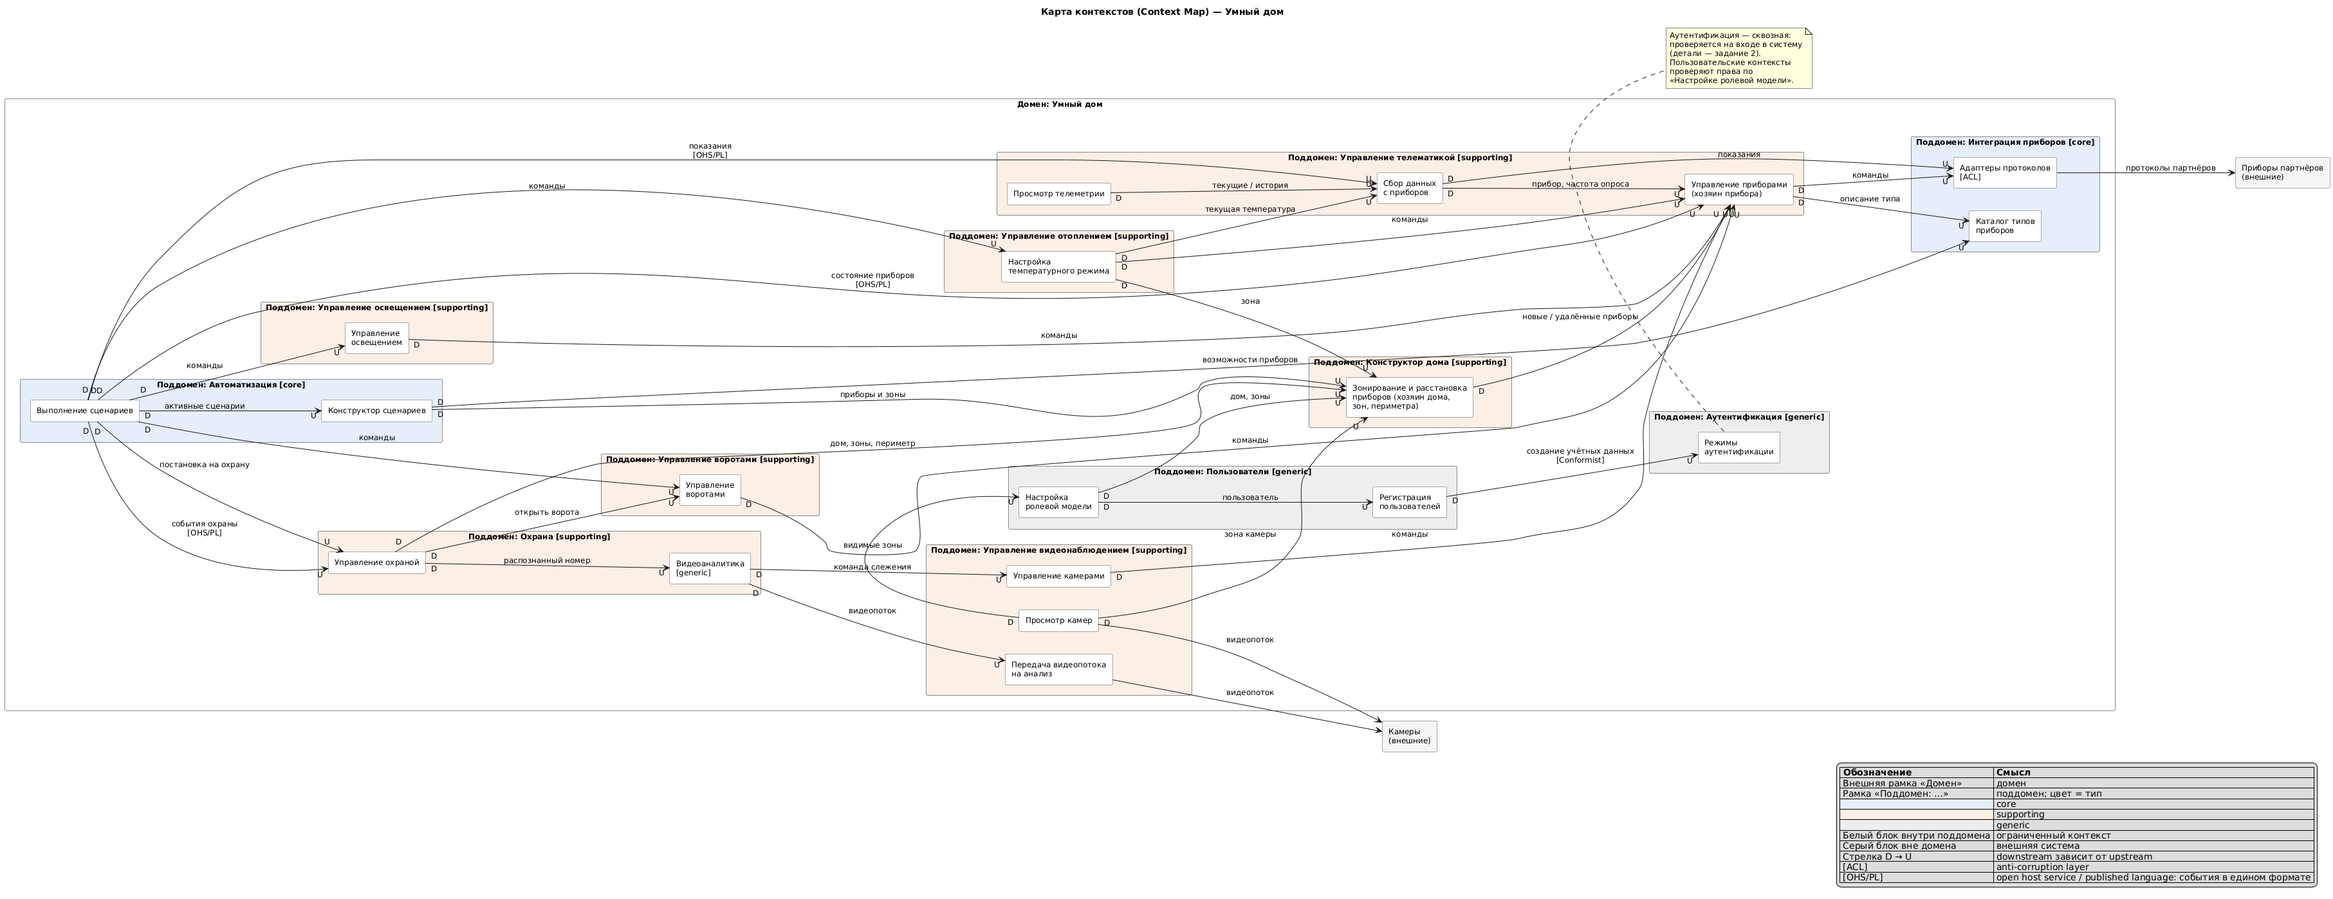
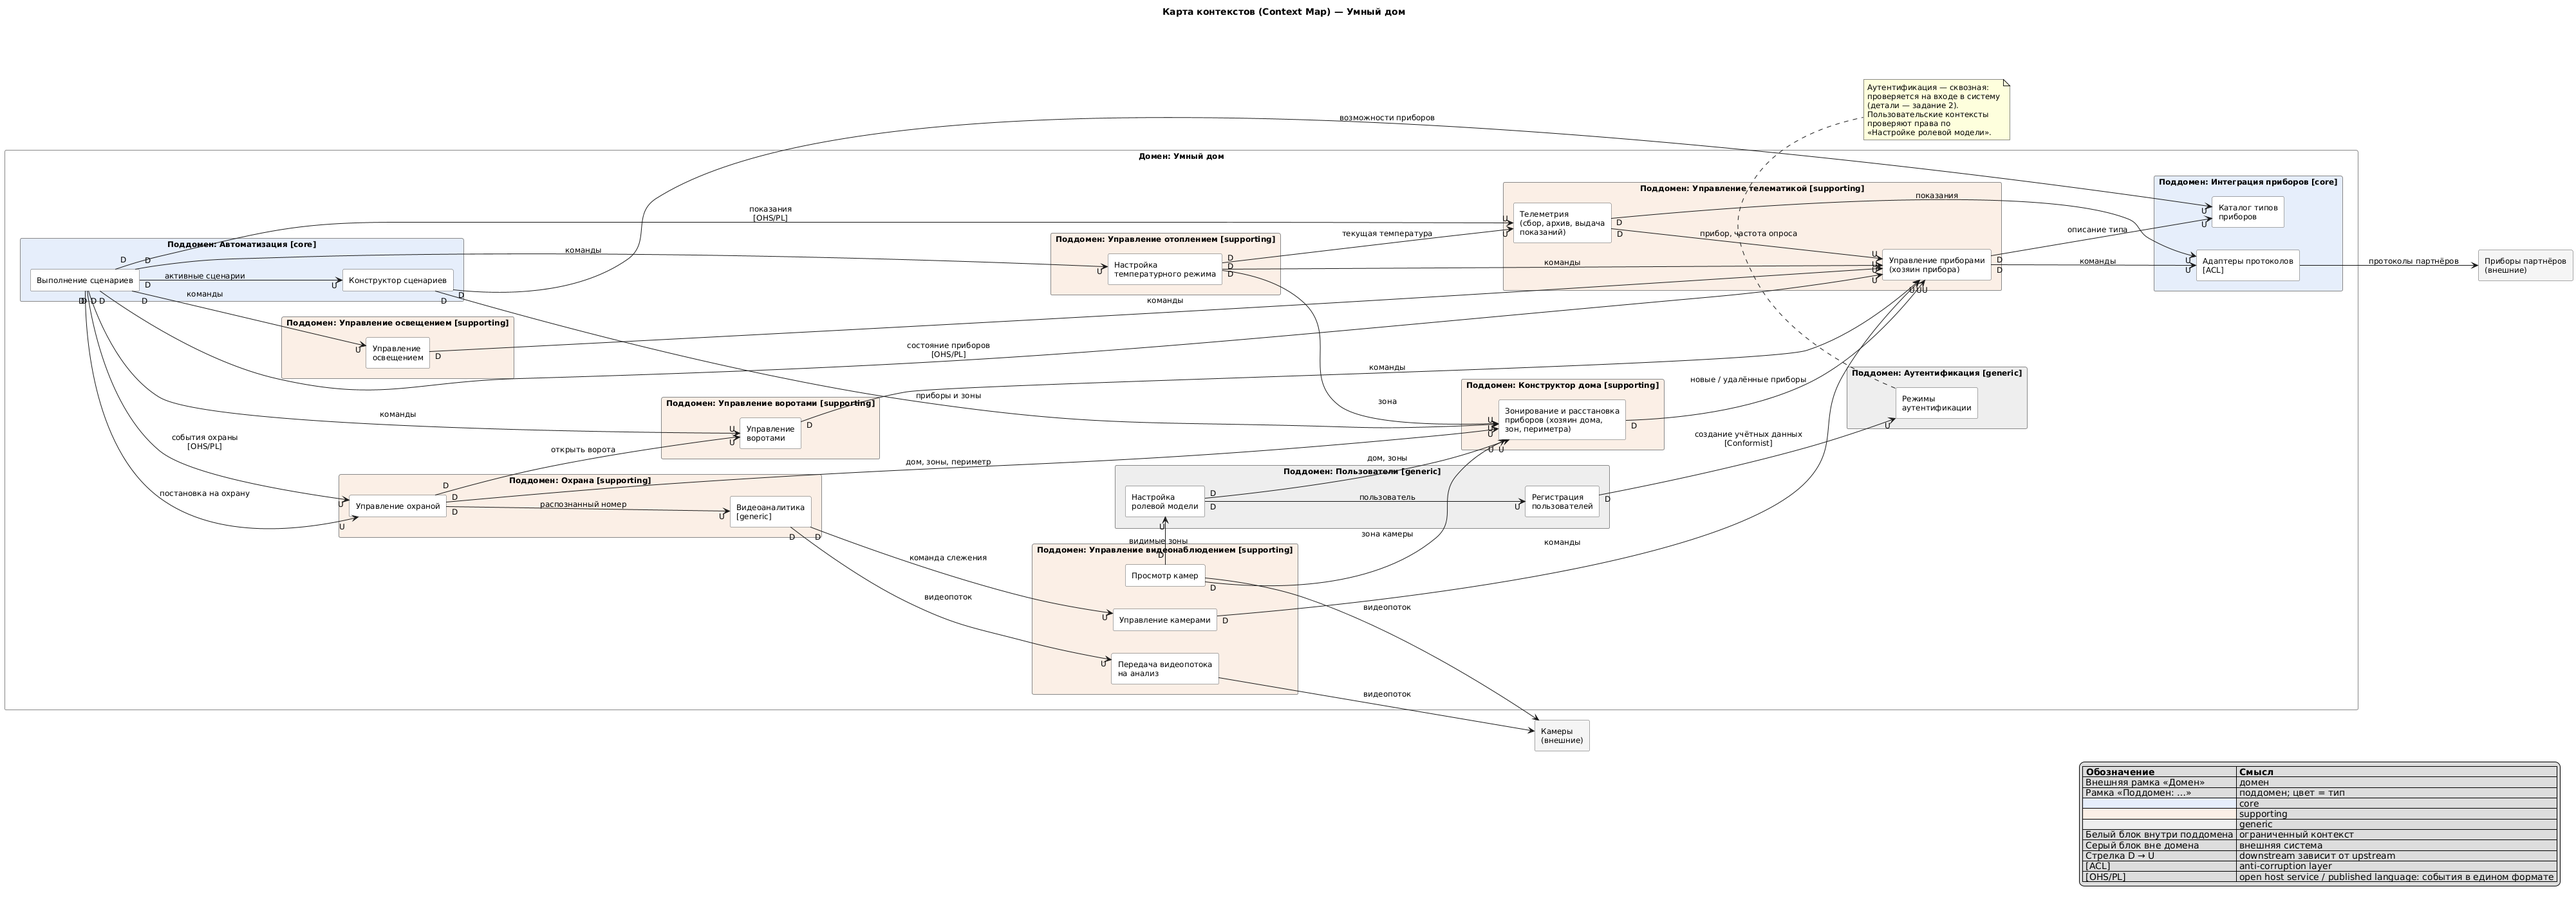
Раздел 3: «Сбор данных» и «Просмотр телеметрии» объединены в контекст «Телеметрия»

diff --git a/diagrams/domains.md b/diagrams/domains.md
@@ -51,16 +51,18 @@
           частота опроса, адрес, калибровка);
         - передача команд на приборы (единственный путь команд к приборам);
         - контроль работоспособности приборов.
-    - Контекст: Сбор данных с приборов (плановый опрос с заданной частотой,
-      внеочередной опрос по запросу, хранение истории показаний в архиве;
-      единственный контекст, обращающийся к приборам за показаниями)
-    - Контекст: Просмотр телеметрии (ничего не хранит; текущие показания
-      и история — через «Сбор данных»)
+    - Контекст: Телеметрия (единственный контекст, обращающийся к приборам
+      за показаниями). Операции:
+        - плановый опрос с заданной частотой;
+        - внеочередной опрос по запросу;
+        - хранение истории показаний в архиве;
+        - выдача текущих и исторических показаний (пользователю,
+          сценариям, отоплению).
 
 - Интеграция приборов [core]
     - Контекст: Адаптеры протоколов [ACL] (перевод стандартных протоколов
       партнёров в единую внутреннюю модель показаний и команд;
-      «Сбор данных» и «Передача команд на приборы» работают
+      «Телеметрия» и «Передача команд на приборы» работают
       с приборами через адаптеры)
     - Контекст: Каталог типов приборов (описание типа как данных:
       что прибор измеряет, в каких единицах, какие команды принимает;
@@ -92,7 +94,7 @@
       проверяет условия и отдаёт команды через контексты типов приборов;
       отделено от конструктора из-за разного характера работы: конструирование
       редкое, выполнение непрерывное). Условия сценариев:
-        - показания приборов — от «Сбора данных»;
+        - показания приборов — от «Телеметрии»;
         - состояние приборов — от «Управления приборами»;
         - события охраны (тревога, постановка, снятие) — от «Управления охраной»;
         - время и расписание, ручной запуск пользователем — внутренние.
@@ -124,9 +126,9 @@
 - Модуль управления — прибор-шлюз (хаб), через который подключаются
   другие приборы; сопрягается как обычный прибор.
 - Телеметрия — показания приборов (значение, единица измерения, время,
-  прибор) и их история. Охватывает контексты «Сбор данных с приборов»
-  и «Просмотр телеметрии»; они разделены из-за разного характера работы:
-  сбор идёт непрерывно, просмотр — по запросу пользователя.
+  прибор) и их история. Ими владеет контекст «Телеметрия»: он собирает
+  показания с заданной частотой или внеочередно, ведёт архив и выдаёт
+  текущие и исторические значения.
 
 Правила:
 - Владение прибором: прибор существует с момента сопряжения, хозяин —
@@ -139,11 +141,11 @@
 - Управление: пользователь, «Автоматизация» и «Управление охраной»
   управляют приборами через контексты своего типа (отопление, освещение,
   ворота, камеры); те передают команды через «Передачу команд на приборы».
-- Данные: показания приборов идут только через «Сбор данных».
+- Данные: показания приборов идут только через «Телеметрию».
   Исключение: видеопоток «Видеонаблюдение» получает с камер само,
   поскольку это непрерывный поток большого объёма, а не дискретные
   показания, и он не укладывается в модель телеметрии.
-- События: «Сбор данных», «Управление приборами» и «Управление охраной»
+- События: «Телеметрия», «Управление приборами» и «Управление охраной»
   публикуют события в едином формате (Open Host Service / Published
   Language); «Выполнение сценариев» на них подписывается.
 - Доступ: аутентификация сквозная — проверяется на входе в систему

diff --git a/README.md b/README.md
@@ -96,16 +96,18 @@
           частота опроса, адрес, калибровка);
         - передача команд на приборы (единственный путь команд к приборам);
         - контроль работоспособности приборов.
-    - Контекст: Сбор данных с приборов (плановый опрос с заданной частотой,
-      внеочередной опрос по запросу, хранение истории показаний в архиве;
-      единственный контекст, обращающийся к приборам за показаниями)
-    - Контекст: Просмотр телеметрии (ничего не хранит; текущие показания
-      и история — через «Сбор данных»)
+    - Контекст: Телеметрия (единственный контекст, обращающийся к приборам
+      за показаниями). Операции:
+        - плановый опрос с заданной частотой;
+        - внеочередной опрос по запросу;
+        - хранение истории показаний в архиве;
+        - выдача текущих и исторических показаний (пользователю,
+          сценариям, отоплению).
 
 - Интеграция приборов [core]
     - Контекст: Адаптеры протоколов [ACL] (перевод стандартных протоколов
       партнёров в единую внутреннюю модель показаний и команд;
-      «Сбор данных» и «Передача команд на приборы» работают
+      «Телеметрия» и «Передача команд на приборы» работают
       с приборами через адаптеры)
     - Контекст: Каталог типов приборов (описание типа как данных:
       что прибор измеряет, в каких единицах, какие команды принимает;
@@ -137,7 +139,7 @@
       проверяет условия и отдаёт команды через контексты типов приборов;
       отделено от конструктора из-за разного характера работы: конструирование
       редкое, выполнение непрерывное). Условия сценариев:
-        - показания приборов — от «Сбора данных»;
+        - показания приборов — от «Телеметрии»;
         - состояние приборов — от «Управления приборами»;
         - события охраны (тревога, постановка, снятие) — от «Управления охраной»;
         - время и расписание, ручной запуск пользователем — внутренние.
@@ -169,9 +171,9 @@
 - Модуль управления — прибор-шлюз (хаб), через который подключаются
   другие приборы; сопрягается как обычный прибор.
 - Телеметрия — показания приборов (значение, единица измерения, время,
-  прибор) и их история. Охватывает контексты «Сбор данных с приборов»
-  и «Просмотр телеметрии»; они разделены из-за разного характера работы:
-  сбор идёт непрерывно, просмотр — по запросу пользователя.
+  прибор) и их история. Ими владеет контекст «Телеметрия»: он собирает
+  показания с заданной частотой или внеочередно, ведёт архив и выдаёт
+  текущие и исторические значения.
 
 **Правила:**
 - прибор существует с момента сопряжения, хозяин —
@@ -184,11 +186,11 @@
 - пользователь, «Автоматизация» и «Управление охраной»
   управляют приборами через контексты своего типа (отопление, освещение,
   ворота, камеры); те передают команды через «Передачу команд на приборы».
-- показания приборов идут только через «Сбор данных».
+- показания приборов идут только через «Телеметрию».
   Исключение: видеопоток «Видеонаблюдение» получает с камер само,
   поскольку это непрерывный поток большого объёма, а не дискретные
   показания, и он не укладывается в модель телеметрии.
-- «Сбор данных», «Управление приборами» и «Управление охраной»
+- «Телеметрия», «Управление приборами» и «Управление охраной»
   публикуют события в едином формате (Open Host Service / Published
   Language); «Выполнение сценариев» на них подписывается.
 - аутентификация сквозная — проверяется на входе в систему. Пользовательские контексты проверяют права
